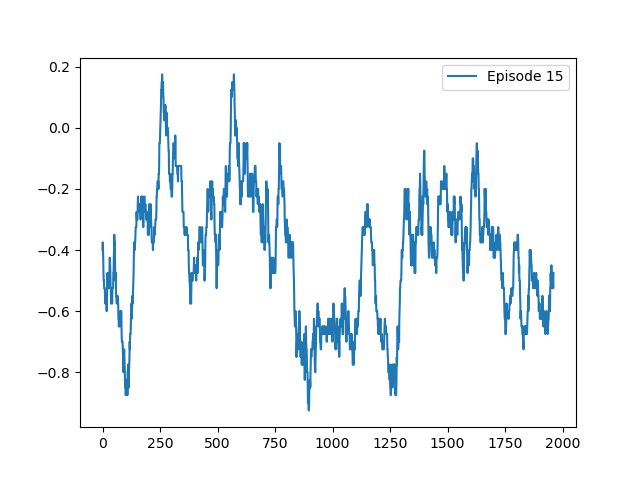
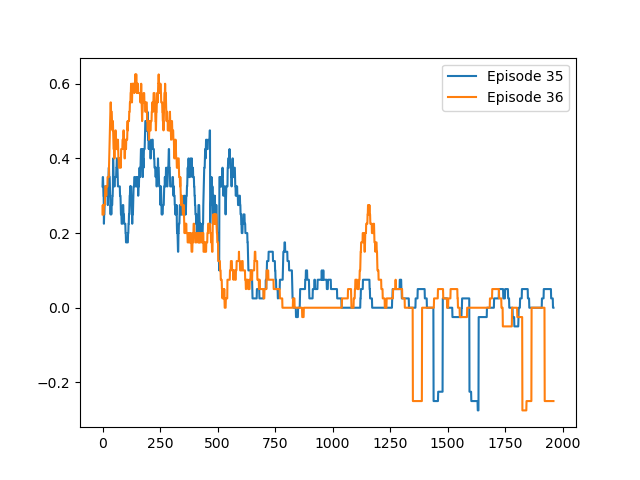
Update

diff --git a/utils/SPPGym.py b/utils/SPPGym.py
@@ -203,9 +203,6 @@ class SPPGym(gym.Env):
         terminated = self.steps_done >= self.limit_step
         info = {}
 
-        # if terminated:
-        #     print(self.max_q_reached)
-
         # Action : Choix_Action x Choix_Service x Placement x Choix_Demande x Changement_Quantité x Changement PCC
         (
             service_or_demand_or_quantities,
@@ -218,11 +215,13 @@ class SPPGym(gym.Env):
 
         # Si service_or_demand == 0, on s'occupe du service et on le déplace
         if service_or_demand_or_quantities == 0:
+            old_state = self.state
             self._update_placement(selected_service, choosen_node_for_this_service)
-            reward = -2
+            reward = -10 if old_state == self.state else -2
         elif service_or_demand_or_quantities == 1:  # Sinon, on reroute la demande
+            old_state = self.state
             self._reroute(selected_demand, choosen_sp)
-            reward = -1
+            reward = -10 if old_state == self.state else -1
         else:
             self._update_quantity(selected_demand, action_q)
             if self.max_q_reached_episode == 0:

diff --git a/utils/make_tree_instance.py b/utils/make_tree_instance.py
@@ -48,9 +48,6 @@ def make_tree_instance(
         + [1000] * 2
     )
 
-    # nx.draw(nx_graph, with_labels=True)
-    # plt.show()
-
     # Build graph
     latency_alphas = [1.0] * nx_graph.number_of_edges() * 2
     latency_betas = [1.0] * nx_graph.number_of_edges() * 2

diff --git a/debug_heuristique.py b/debug_heuristique.py
@@ -6,7 +6,7 @@ import os
 
 os.environ["KMP_DUPLICATE_LIB_OK"] = "TRUE"
 
-users = 8
+users = 15
 neighbors = 4
 instance_name = "tree_{}_{}".format(users, neighbors)
 solver_name = "base_heuristic"
